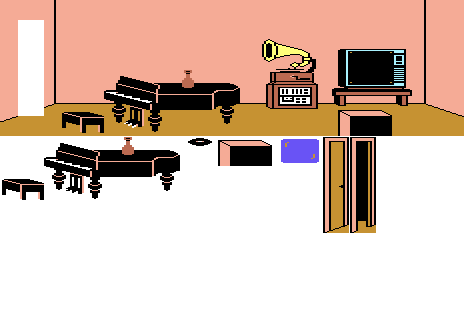
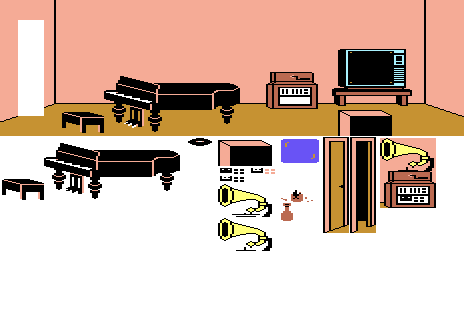
adding more rooms

diff --git a/mmansion/src/scripts.py b/mmansion/src/scripts.py
@@ -2,6 +2,7 @@ import monkey
 from . import data
 from . import settings
 from . import ui
+from . import factory
 
 def makeText(id, pal):
     msg = monkey.Text('text', 'c64', data.strings[id], pal=pal)
@@ -132,9 +133,11 @@ def _close(script):
 def _pickup(script):
     say(script, 75)
 
-def pickup(script, item):
+def pickup(script, item, callback=None):
     data.getItem(item)['active'] = False
     script.add(monkey.actions.CallFunc(addToInventory(item)))
+    if callback:
+        globals()[callback](script)
 
 
 
@@ -315,3 +318,45 @@ def give_green_tentacle_fruit_drinks(script):
         script.add(monkey.actions.Walk(gt.id, [138,29]))
 
 
+def use_hunkomatic(script, *args):
+    script.add(monkey.actions.CallFunc(disable_ui))
+    for i in range(0,3):
+        script.add(monkey.actions.Animate(data.tag_to_id['hunkomatic'], 'default'))
+        script.add(monkey.actions.Delay(1))
+        script.add(monkey.actions.Animate(data.tag_to_id['hunkomatic'], 'lift'))
+        script.add(monkey.actions.Delay(1))
+    script.add(monkey.actions.Animate(data.tag_to_id['hunkomatic'], 'default'))
+    script.add(monkey.actions.CallFunc(enable_ui))
+    say(script, 118)
+
+def put_cassette_in_recorder(script, *args):
+    data.tape_in_recorder = True
+    script.add(monkey.actions.CallFunc(drop_item('cassette_tape', settings.characters[settings.player])))
+    script.add(monkey.actions.CallFunc(ui.refresh_inventory))
+    item = (data.items['items']['cassette_tape'])
+    item.update({
+        'rooms': 'music_room',
+        'pos': [282, 34],
+        'walk_to': [292, 25],
+        'walk_dir': 'n',
+        'anim': 'recorder'
+    })
+    script.add(monkey.actions.Add(settings.id_game, factory.createItem(item, 'cassette_tape')))
+
+def turn_on_recorder(script, *args):
+    if data.tape_in_recorder:
+        data.cassette_recorder = 'recording'
+        script.add(monkey.actions.Animate(data.tag_to_id['cassette_recorder'], data.cassette_recorder))
+        say(script, 122)
+    else:
+        say(script, 121)
+
+def turn_off_recorder(script, *args):
+    if data.tape_in_recorder:
+        data.cassette_recorder = 'off'
+        script.add(monkey.actions.Animate(data.tag_to_id['cassette_recorder'], data.cassette_recorder))
+        say(script, 123)
+
+def check_tape(script):
+    if settings.room == 'music_room':
+        data.tape_in_recorder = False

diff --git a/mmansion/src/factory.py b/mmansion/src/factory.py
@@ -185,7 +185,8 @@ def createItem(desc, item):
     hasLight = getattr(data, "light_" + settings.room, True)
     if not hasLight:
         node.setPalette('dark')
-
+    if item:
+        data.tag_to_id[item] = node.id
     return node
 
 
@@ -322,7 +323,7 @@ def create_room(room):
                 node.state = monkey.NodeState.ACTIVE if active else monkey.NodeState.INACTIVE
             #print('adding', item, active)
             game_node.add(node)
-            data.tag_to_id[item] = node.id
+
 
     if settings.start_script:
         getattr(scripts, settings.start_script)()

diff --git a/mmansion/src/data.py b/mmansion/src/data.py
@@ -11,7 +11,7 @@ def getItem(id: str):
 
 inventory = {
     'dave': [],
-    'bernard': ['wax_fruit', 'fruit_drinks']
+    'bernard': ['cassette_tape']
 }
 
 delayed_funcs = {
@@ -32,6 +32,12 @@ door_artroom='closed'
 door_musicroom='closed'
 door_hallway_mid='closed'
 door_radio='closed'
+door_fitness='closed'
+
+cassette_recorder = 'off'
+tape_in_recorder = False
+
+
 hatch='open'
 fridge = 'closed'
 loose_panel = 'closed'

diff --git a/mmansion/src/ui.py b/mmansion/src/ui.py
@@ -259,7 +259,7 @@ def execute_action(node):
                     f(script)
             else:
                 i1_in_inv = settings.item1 in inventory
-                i2_in_inv = settings.item1 in inventory
+                i2_in_inv = settings.item2 in inventory
                 if i1_in_inv and not i2_in_inv:
                     scripts.walkToItem(script, settings.item2)
                 elif i2_in_inv and not i1_in_inv:

diff --git a/mmansion/src/settings.py b/mmansion/src/settings.py
@@ -3,7 +3,7 @@ import monkey
 device_size = (320, 200)
 main_view_height = 136
 main_view_y = 54
-room = 'staircase'
+room = 'music_room'
 start_script= None
 title = 'Maniac Mansion'
 enable_mouse = True
